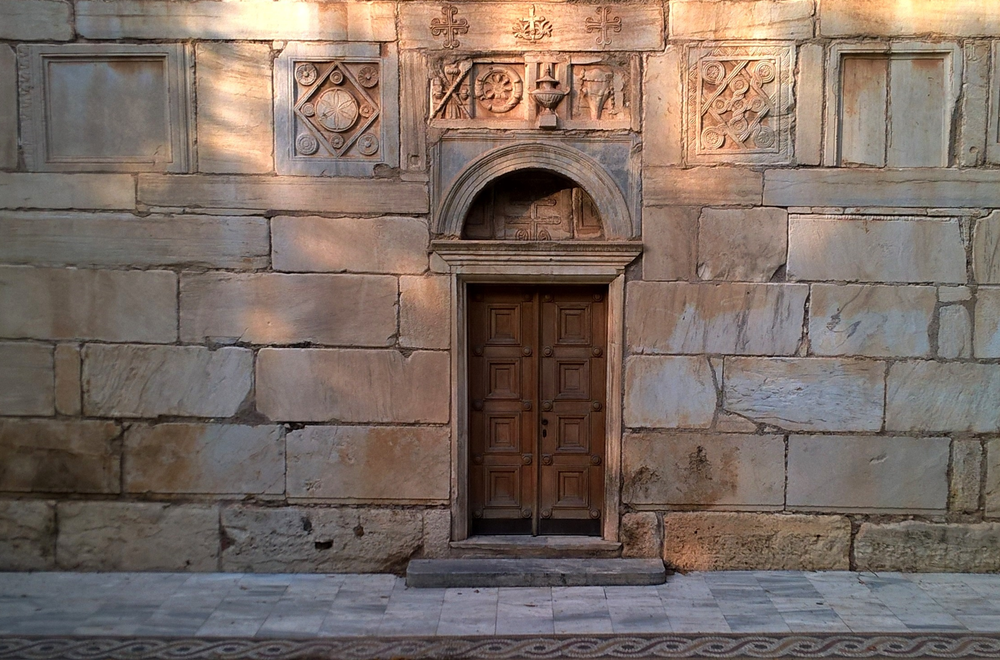
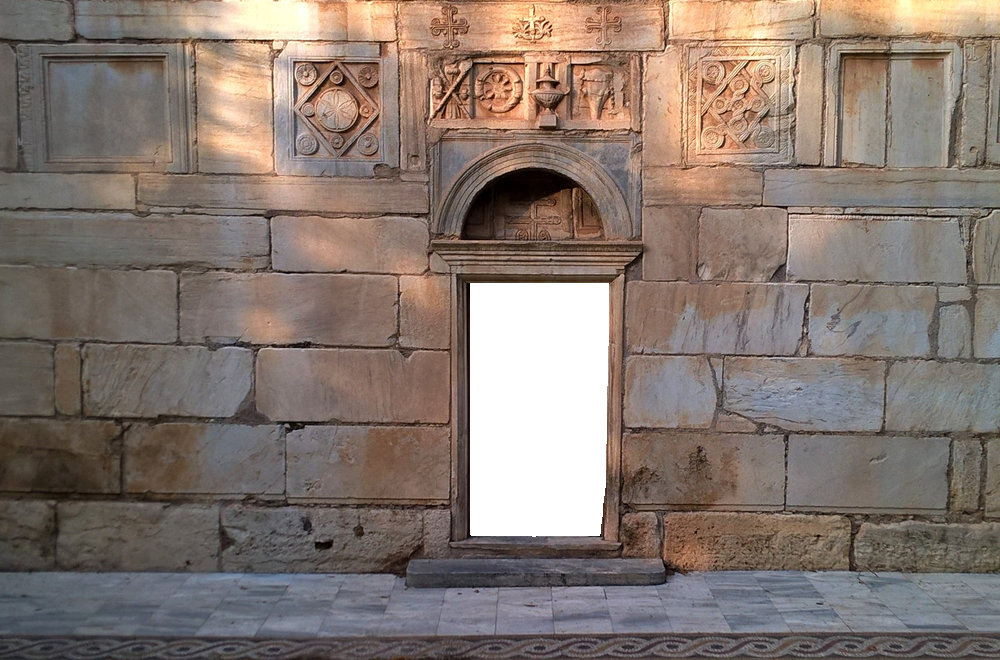
Game room 4: Cut out doors

Changed region(s): [[0.465, 0.4242, 0.62, 0.8182]]

diff --git a/docs/app/r4.html b/docs/app/r4.html
@@ -27,8 +27,36 @@ body {
   border: none;
 }
 
+#sun {
+  z-index: -101;
+  height: 563px;
+}
+
 .backgroundImage {
   z-index: -99;
+}
+
+#doorLeft {
+  z-index: -100;
+  position: absolute;
+  object-fit: contain;
+  top: 284;
+  left: 470;
+}
+
+#doorRight {
+  z-index: -100;
+  position: absolute;
+  object-fit: contain;
+  top: 284;
+  left: 543;
+}
+
+#doorDropTarget {
+  top: 284;
+  left: 470;
+  height: 251;
+  width: 140;
 }
 
 .behindBackground {
@@ -77,7 +105,7 @@ body {
   height: 200px;
 }
 
-.ball {
+#ball {
   left: 717px;
   top: 414px;
   width: 100px;
@@ -85,10 +113,13 @@ body {
 
 .key {
   position: absolute;
-  left: 220px;
-  top: 550px;
   object-fit: contain;
   width: 80px;
+}
+
+#key {
+  left: 220px;
+  top: 550px;
 }
 
 svg {
@@ -104,7 +135,6 @@ svg {
   stroke-width: 0px;
   fill: none;
 }
-
 
 .column {
   left: 180px;
@@ -201,6 +231,20 @@ svg {
 
       function fall() {
         changeColumnClass('fallingColumn');
+        stopBallDragging();
+        allowKeyDragging();
+      }
+
+      function allowKeyDragging() {
+        const key = document.getElementById('key');
+        key.draggable = true;
+        key.classList.add('layer5');
+        key.classList.remove('layer1');
+      }
+
+      function stopBallDragging() {
+        const ball = document.getElementById('ball');
+        ball.draggable = false;
       }
       
       function sway() {
@@ -273,9 +317,12 @@ svg {
       let ball;
       let dragStartOffsetFromBallCentreX = 0;
       let dragStartOffsetFromBallCentreY = 0;
+
+      let draggingBall = false;
       
-      function drag(ev) {
+      function dragStartBall(ev) {
         ev.dataTransfer.setData("subject", ev.target);
+        draggingBall = true;
 
         const mouseX = ev.clientX;
         const mouseY = ev.clientY;
@@ -299,11 +346,11 @@ svg {
       let previousLocation = 'small';
 
       function drop(ev, targetLocation) {
-        // TODO Check subject is the ball - maybe store ev.target.id? 
+        // TODO Check subject is the ball or the door draggingBall, draggingKey - maybe store ev.target.id? 
         ev.preventDefault();
-        const subject = ev.dataTransfer.getData("subject");
+       // const subject = ev.dataTransfer.getData("subject");
         // console.log("DROPPED, target=" + targetLocation);
-        // console.log(subject);
+        //console.log(subject.getAttribute('id'));
 
         if (targetLocation == 'column') {
           // TODO human protection? or allow them to discover this
@@ -320,7 +367,7 @@ svg {
           const dropLocation = dropLocations[targetLocation];
           ball.style.left = dropLocation.left;
           ball.style.top = dropLocation.top;
-            
+
           previousLocation = targetLocation;
         }
 
@@ -328,24 +375,22 @@ svg {
         moveRopeToBall();
       }
 
-      function dragOver(ev, label) {
-        // TODO Check subject is the ball - maybe store ev.target.id? 
-        const subject = ev.dataTransfer.getData("subject");
+      function dragOver(ev) {
+        // Note that dataTransfer types can be seen here but not the values, by design.
 
-        const x = ev.pageX;
-        const y = ev.pageY;
+        if (draggingBall) {
+          const x = ev.pageX;
+          const y = ev.pageY;
 
-        // TODO Remove label parameter
-        // console.log('Drag over ' + label);
-
-        const ballCentreWindowX = x + dragStartOffsetFromBallCentreX;
-        const ballCentreWindowY = y + dragStartOffsetFromBallCentreY;
-
-        const containerOrigin = getContainerOrigin();
-        const ballCentreX = ballCentreWindowX - containerOrigin.x;
-        const ballCentreY = ballCentreWindowY - containerOrigin.y;
-
-        window.moveRopeEnd(ballCentreX, ballCentreY);
+          const ballCentreWindowX = x + dragStartOffsetFromBallCentreX;
+          const ballCentreWindowY = y + dragStartOffsetFromBallCentreY;
+          
+          const containerOrigin = getContainerOrigin();
+          const ballCentreX = ballCentreWindowX - containerOrigin.x;
+          const ballCentreY = ballCentreWindowY - containerOrigin.y;
+          
+          window.moveRopeEnd(ballCentreX, ballCentreY);
+        }
       }
       
       function moveRopeToBall() {
@@ -385,6 +430,7 @@ svg {
       }
 
       function dragEnd(ev) { 
+        draggingBall = false;
         moveRopeToBall();
       }
 
@@ -759,15 +805,45 @@ svg {
     <div id="container" class="image-container">
 
       <img
+        id="sun"
+        src="img/r3-sky.png"
+        alt="Blue sky with sun"
+        class="fullImage"
+      />
+
+      <img
         src="img/r4-background.png"
         alt="Temple"
         class="fullImage backgroundImage"
       />
 
       <img
+        id="doorLeft"
+        src="img/r4-door-left.png"
+        alt="Door"
+      />
+
+      <img
+        id="doorRight"
+        src="img/r4-door-right.png"
+        alt="Door"
+      />
+
+      <div
+        id="doorDropTarget"
+        class="layer5"
+        draggable="true"
+        ondragover="dragOver(event);allowDrop(event);"
+        ondrop="drop(event, 'door');"
+      ></div>
+
+      <img
+        id="key"
         src="img/key.png"
         alt="Old key"
         class="layer1 key"
+        draggable="false"
+        ondragstart="dragStartKey(event);"
       />
 
       <img
@@ -776,7 +852,7 @@ svg {
         alt="Large stone column"
         class="layer5 column"
         draggable="false"
-        ondragover="dragOver(event, 'dragCOL');allowDrop(event);"
+        ondragover="dragOver(event);allowDrop(event);"
         ondrop="drop(event, 'column');"
       />
 
@@ -785,7 +861,7 @@ svg {
         alt="Small stone pedestal"
         class="layer5 small-pedestal"
         draggable="false"
-        ondragover="dragOver(event, 'dragSMALL');allowDrop(event);"
+        ondragover="dragOver(event);allowDrop(event);"
         ondrop="drop(event, 'small');"
       />
       
@@ -794,7 +870,7 @@ svg {
         alt="Large stone pedestal"
         class="layer5 large-pedestal"
         draggable="false"
-        ondragover="dragOver(event, 'dragPedestal');allowDrop(event);"
+        ondragover="dragOver(event);allowDrop(event);"
         ondrop="drop(event, 'large');"
         />
 
@@ -802,22 +878,22 @@ svg {
         class="layer4 fullImage"
         id="transparentDragDivBehindTargets"
         draggable="false"
-        ondragover="dragOver(event, 'dragdiv');"
+        ondragover="dragOver(event);"
       ></div>
 
       <img
         id="ball"
         src="img/ball.png"
         alt="Large iron cannon ball"
-        class="layer5 ball"
+        class="layer5"
         draggable="true"
-        ondragstart="drag(event);"
+        ondragstart="dragStartBall(event);"
         ondragend="dragEnd(event);"
-        ondragover="dragOver(event, 'dragBALL');"
+        ondragover="dragOver(event);"
       />
 
       <svg id="cable" class="behindBackground"><path id="cablePath"></path></svg>
-      <svg id="rope" class="layer3"></svg>
+      <svg id="rope" class="layer3" draggable="false"></svg>
       
     </div>
  
